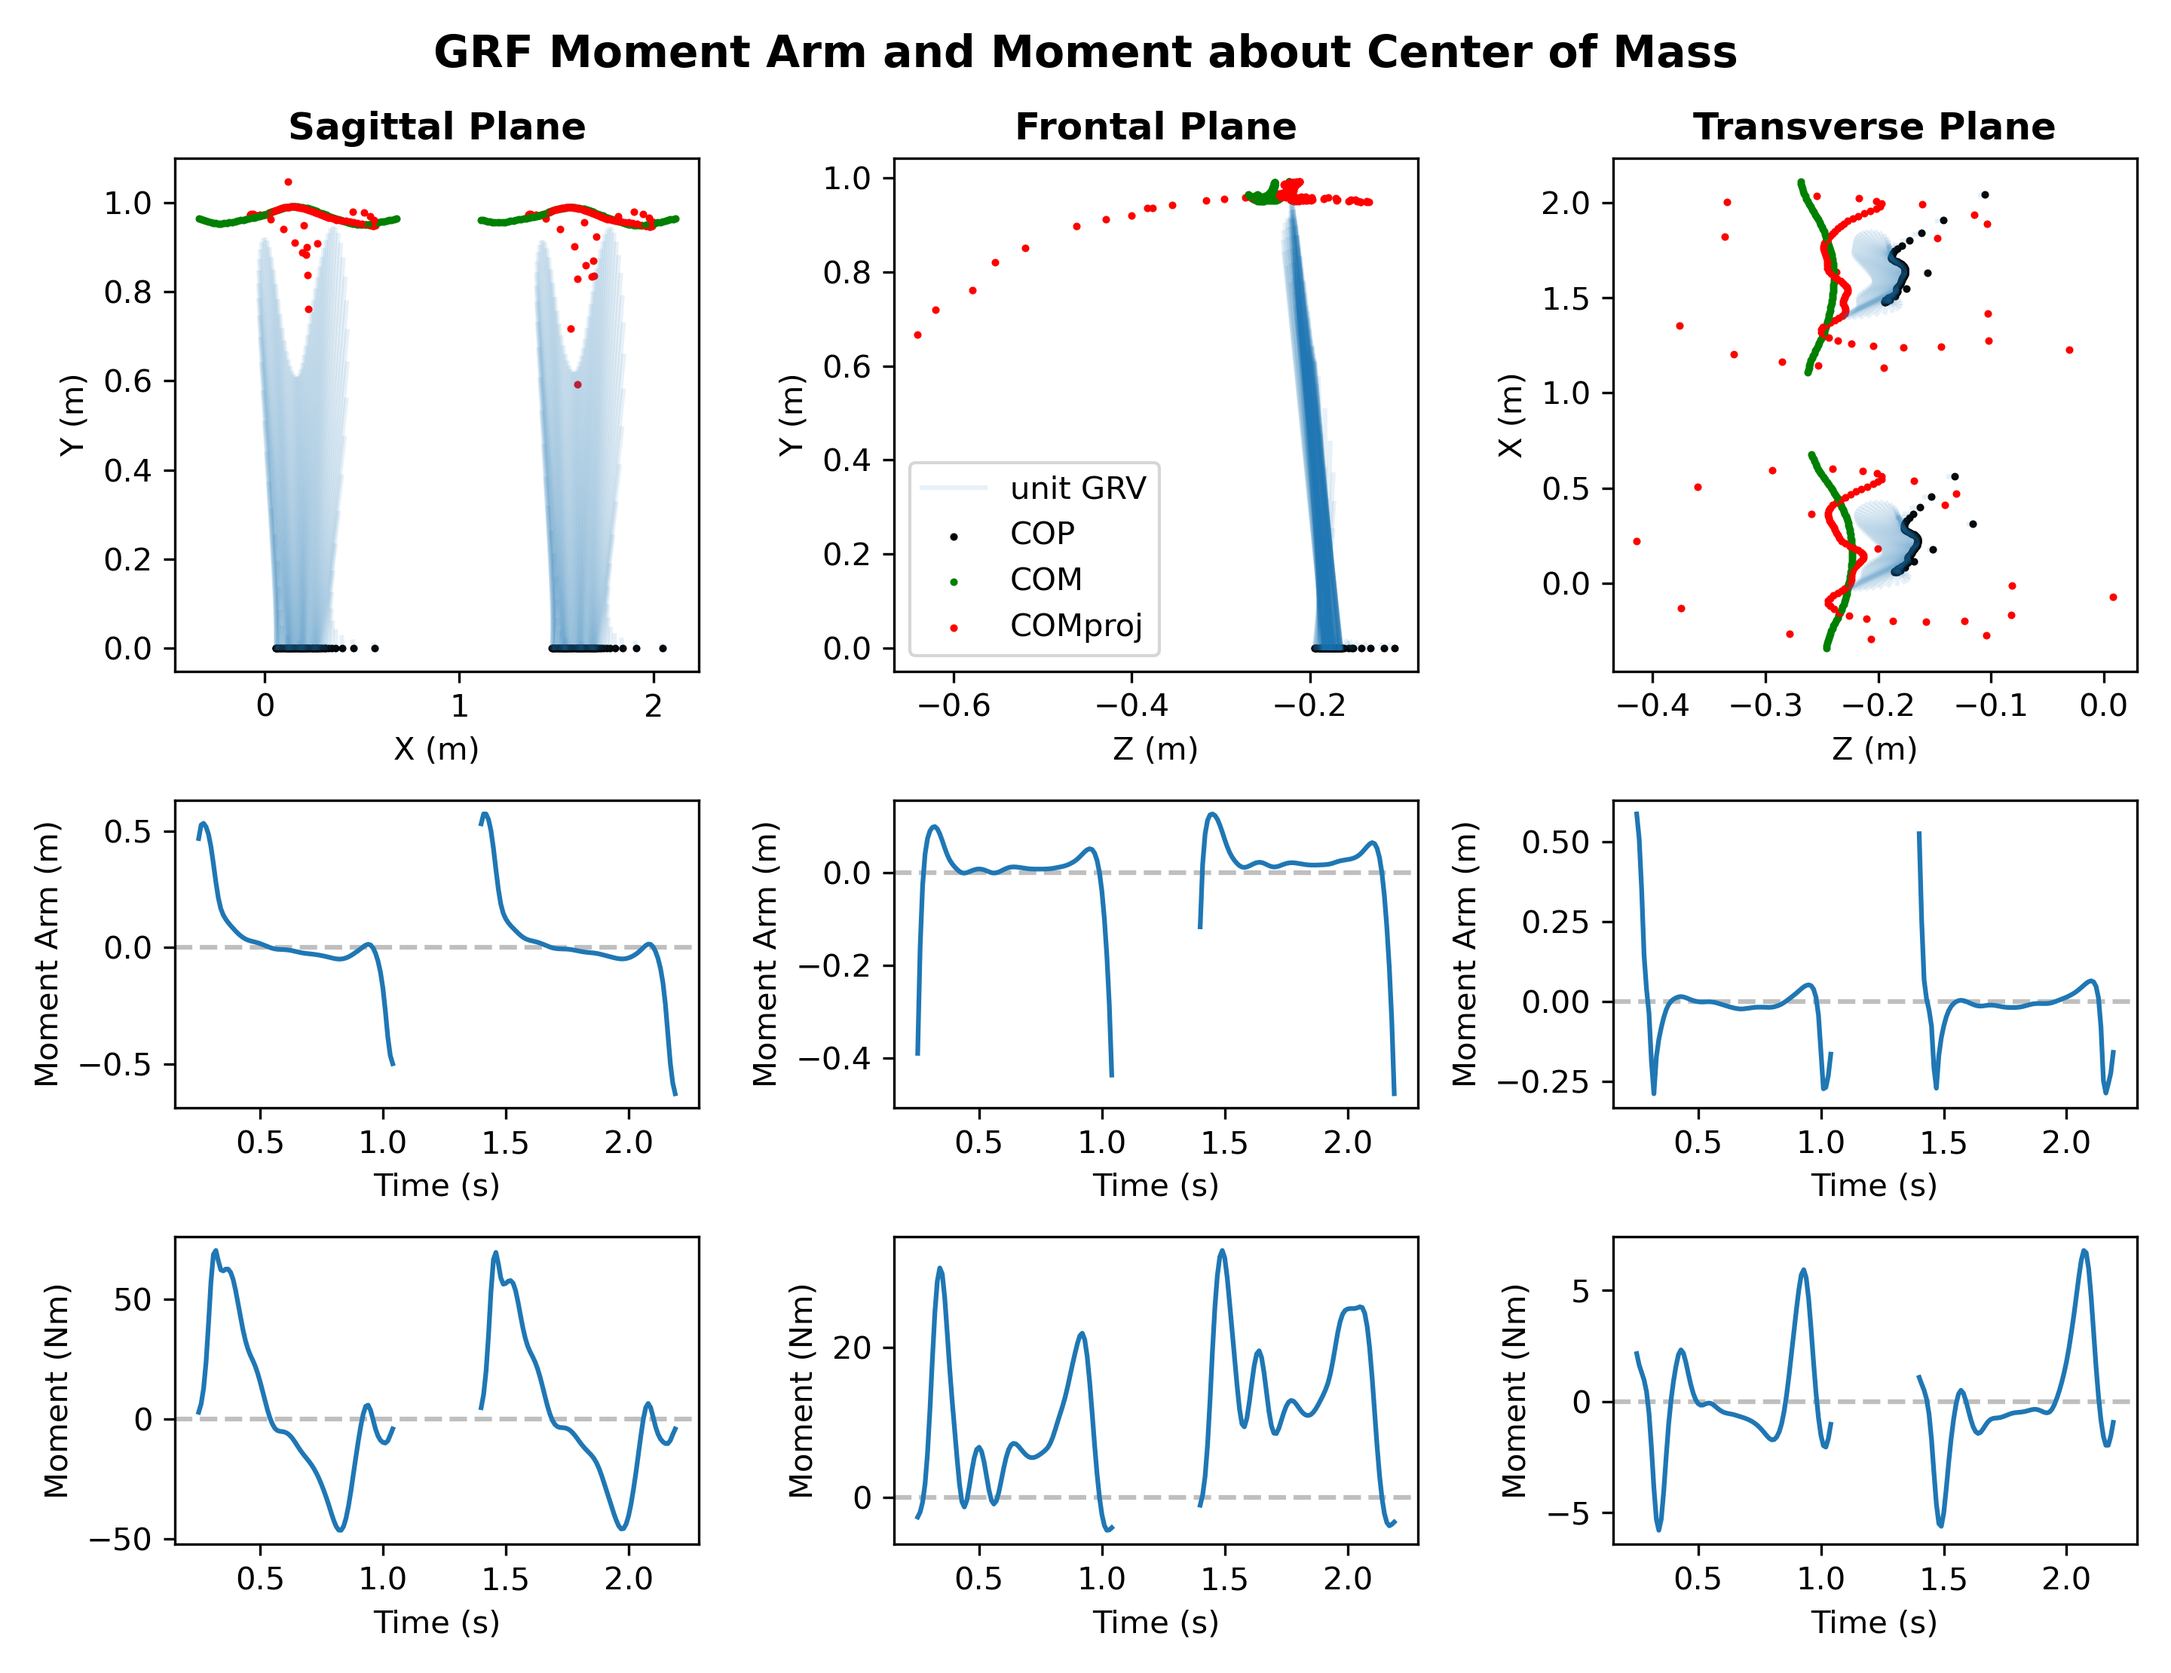
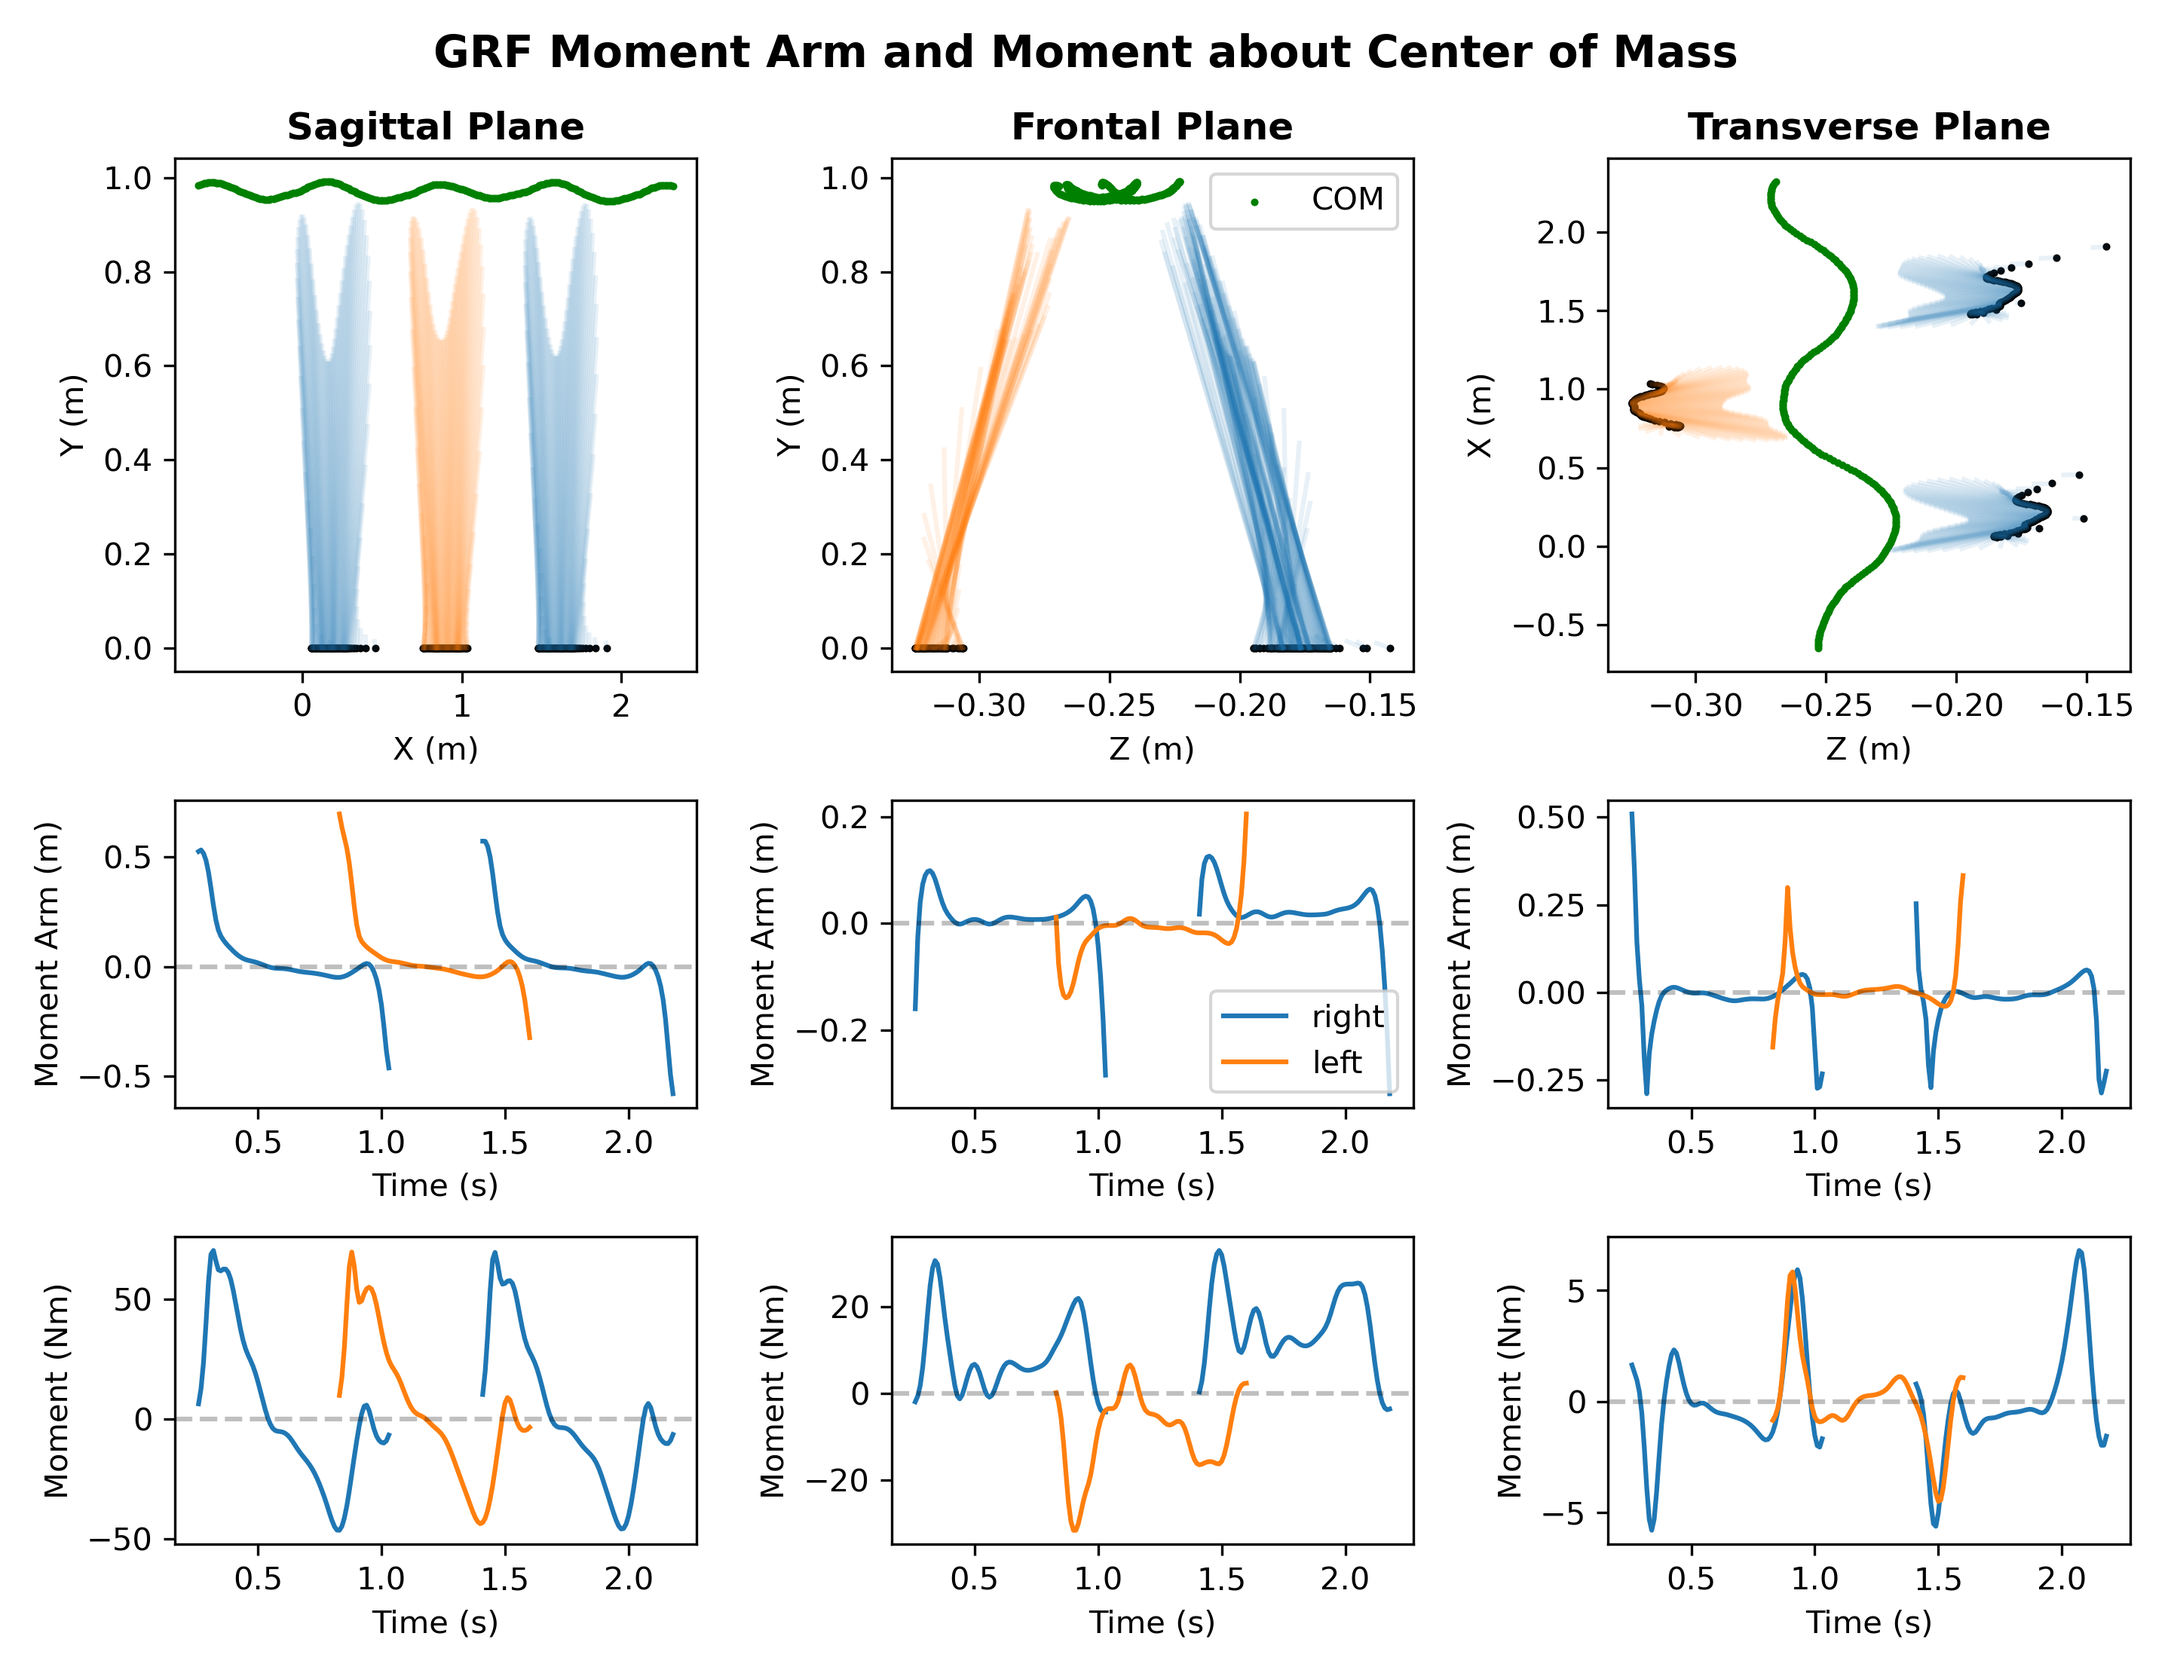
support both legs

diff --git a/GRFmomentArm.py b/GRFmomentArm.py
@@ -21,31 +21,29 @@ osim.TableUtilities().filterLowpass(q, 15, padData=True)
 model.getSimbodyEngine().convertDegreesToRadians(q)
 q.trim(t[0], t[-1])
 
-# read GRF file
-f = osim.Storage(nameGRF)
-# resample and trim the force file to match the IK file
-f.resampleLinear(dt)
+f = osim.Storage(nameGRF) # read GRF file
+f.resampleLinear(dt) # resample and trim the force file to match the IK file
 f.crop(t[0],t[-1])
 # Storage::exportTable() DOESN'T WORK IN PYTHON
 # f.printToFile(f'{nameGRF[:-4]}_resampled.mot', dt)
 f.printToXML(f'{nameGRF[:-4]}_resampled.mot')
 
 f = osim.TimeSeriesTable(f'{nameGRF[:-4]}_resampled.mot')
-# f.trim(t[0],t[-1])
 f.getColumnLabels()
-# f.getNumColumns()/9
-COP = np.vstack([f.getDependentColumn('ground_force_r_px').to_numpy(), \
-				f.getDependentColumn('ground_force_r_py').to_numpy(), \
-				f.getDependentColumn('ground_force_r_pz').to_numpy()]).T
-GRV = np.vstack([f.getDependentColumn('ground_force_r_vx').to_numpy(), \
-				f.getDependentColumn('ground_force_r_vy').to_numpy(), \
-				f.getDependentColumn('ground_force_r_vz').to_numpy()]).T
-# time of foot contact (force data exist)
-magnitude = np.linalg.norm(GRV, ord=2, axis=1) > 0
-# ok = np.where(magnitude)[0].tolist()
 
-# COP = COP[ok,:]
-# GRV = GRV[ok,:]
+foot = dict()
+for side,s in zip(['right','left'],['r','l']):
+	foot[side] = dict()
+	for i,ii in zip(['COP','GRV'],['p','v']):
+		foot[side][i] = np.vstack([ f.getDependentColumn(f'ground_force_{s}_{ii}x').to_numpy(), \
+									f.getDependentColumn(f'ground_force_{s}_{ii}y').to_numpy(), \
+									f.getDependentColumn(f'ground_force_{s}_{ii}z').to_numpy()]).T
+	foot[side]['MAG'] = np.linalg.norm(foot[side]['GRV'], ord=2, axis=1) > 10
+	foot[side]['MA']  = np.empty((len(t),3))
+
+# ground_force_r_vx
+# ground_force_r_vy
+# ground_force_r_vz
 
 COM = np.empty((len(t),3)) # center of mass position
 
@@ -63,17 +61,20 @@ for i,ii in enumerate(t):
 
 
 # https://stackoverflow.com/questions/39840030/distance-between-point-and-a-line-from-two-points
-
-def momentArm(ax, plot=False):
+# %%
+def momentArm(ax, plot=False, c='tab:blue'):
 	line = Line(point=cop, direction=Vector(grv)/1000) # 
-	proj = line.project_point(com).to_array()
+	# proj = line.project_point(com).to_array()
 	dist = -1 * line.side_point(com) * line.distance_point(com)
+
 	if plot:
-		line.plot_2d(ax, alpha=0.1, c='tab:blue')
+		line.plot_2d(ax, alpha=0.1, c=c)
 		Point(cop).plot_2d( ax, c='k', s=2)
-		Point(com).plot_2d( ax, c='g', s=2)
-		Point(proj).plot_2d(ax, c='r', s=2)
+		# Point(com).plot_2d( ax, c='g', s=2)
+		# Point(proj).plot_2d(ax, c='r', s=2)
+
 	return dist
+
 
 
 plt.close('all')
@@ -82,31 +83,41 @@ _, ((ax1,ax2,ax3),(ax4,ax5,ax6),(ax7,ax8,ax9)) = plt.subplots(3,3, \
 		figsize=(9.6,7.4), tight_layout=True, gridspec_kw={'height_ratios': [1,0.6,0.6]})
 plt.suptitle('GRF Moment Arm and Moment about Center of Mass', fontsize=14, fontweight='bold')
 
-dist = np.empty((len(t),3))
 for i,ii in enumerate(t):
-	if magnitude[i] > 0:
-		# sagittal plane [XY]
-		# [i,:2]
-		com = COM[i,[0,1]]
-		cop = COP[i,[0,1]]
-		grv = GRV[i,[0,1]]
-		dist[i,0] = momentArm(ax1, plot=True)
 
-		# frontal plane [ZY]
-		# [i,::-1][:2] reverse the list
-		com = COM[i,[2,1]]
-		cop = COP[i,[2,1]]
-		grv = GRV[i,[2,1]]
-		dist[i,1] = momentArm(ax2, plot=True)
+	Point(COM[i,[0,1]]).plot_2d(ax1, c='g', s=2) # sagittal
+	Point(COM[i,[2,1]]).plot_2d(ax2, c='g', s=2) # frontal
+	Point(COM[i,[2,0]]).plot_2d(ax3, c='g', s=2) # transverse
 
-		# transverse plane [ZX]
-		com = COM[i,[2,0]]
-		cop = COP[i,[2,0]]
-		grv = GRV[i,[2,0]]
-		dist[i,2] = momentArm(ax3, plot=True)
-	
-	else:
-		dist[i,:] = np.ones(3) * np.nan
+	for side,color in zip(['right','left'],['tab:blue','tab:orange']):
+
+		if foot[side]['MAG'][i]: # force data > 0
+
+			# sagittal plane [XY]
+			# [i,:2]
+			com = COM[i,[0,1]]
+			cop = foot[side]['COP'][i,[0,1]]
+			grv = foot[side]['GRV'][i,[0,1]]
+			foot[side]['MA'][i,0]= momentArm(ax1, plot=True, c=color)
+
+			# frontal plane [ZY]
+			# [i,::-1][:2] reverse the list
+			com = COM[i,[2,1]]
+			cop = foot[side]['COP'][i,[2,1]]
+			grv = foot[side]['GRV'][i,[2,1]]
+			foot[side]['MA'][i,1] = momentArm(ax2, plot=True, c=color)
+
+			# transverse plane [ZX]
+			com = COM[i,[2,0]]
+			cop = foot[side]['COP'][i,[2,0]]
+			grv = foot[side]['GRV'][i,[2,0]]
+			foot[side]['MA'][i,2] = momentArm(ax3, plot=True, c=color)
+		
+		else:
+			foot[side]['MA'][i,:] = np.ones(3) * np.nan
+
+
+
 
 ax1.set_title('Sagittal Plane', fontweight='bold')
 ax1.set_xlabel('X (m)')
@@ -117,6 +128,21 @@ ax2.set_ylabel('Y (m)')
 ax3.set_title('Transverse Plane', fontweight='bold')
 ax3.set_xlabel('Z (m)')
 ax3.set_ylabel('X (m)')
+
+
+for side,color in zip(['right','left'],['tab:blue','tab:orange']):
+	# moment arm
+	ax4.plot(t, foot[side]['MA'][:,0], c=color) # sagittal
+	ax5.plot(t, foot[side]['MA'][:,1], c=color) # frontal
+	ax6.plot(t, foot[side]['MA'][:,2], c=color) # transverse
+	# moment
+	ax7.plot(t, foot[side]['MA'][:,0]*np.linalg.norm(foot[side]['GRV'][:,[0,1]], ord=2, axis=1), c=color)
+	ax8.plot(t, foot[side]['MA'][:,1]*np.linalg.norm(foot[side]['GRV'][:,[2,1]], ord=2, axis=1), c=color)
+	ax9.plot(t, foot[side]['MA'][:,2]*np.linalg.norm(foot[side]['GRV'][:,[2,0]], ord=2, axis=1), c=color)
+
+
+
+
 for i in [ax4,ax5,ax6]:
 	i.set_xlabel('Time (s)')
 	i.set_ylabel('Moment Arm (m)')
@@ -125,13 +151,12 @@ for i in [ax7,ax8,ax9]:
 	i.set_xlabel('Time (s)')
 	i.set_ylabel('Moment (Nm)')
 	i.axhline(0, c='k', ls='--', alpha=0.25)
-ax4.plot(t, dist[:,0])
-ax5.plot(t, dist[:,1])
-ax6.plot(t, dist[:,2])
-ax7.plot(t, dist[:,0]*np.linalg.norm(GRV[:,[0,1]], ord=2, axis=1))
-ax8.plot(t, dist[:,1]*np.linalg.norm(GRV[:,[2,1]], ord=2, axis=1))
-ax9.plot(t, dist[:,2]*np.linalg.norm(GRV[:,[2,0]], ord=2, axis=1))
-ax2.legend(['unit GRV', 'COP', 'COM', 'COMproj'])
+
+
+
+
+ax2.legend(['COM'])
+ax5.legend(['right', 'left'])
 plt.savefig('image.png', dpi=300)
 # plt.show(block=False)
 
